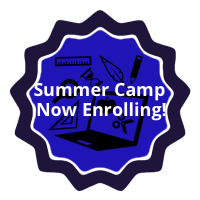
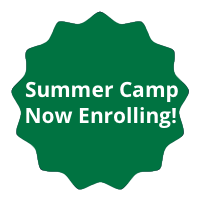
changed color scheme

diff --git a/public/assets/css/styles.css b/public/assets/css/styles.css
@@ -208,7 +208,7 @@ p {
     display:block;
     margin:0 auto;
     width:auto;
-    max-width:75%;
+    max-width:63%;
     height:auto;
 }
 
@@ -1664,7 +1664,7 @@ h3.cs-heading {
     text-decoration: none;
 }
 .cs-page .countdown {
-    color: #313447;
+    color: rgb(0, 115, 65);
     margin-bottom: 0px;
 }
 
@@ -1678,7 +1678,7 @@ h3.cs-heading {
 }
 .pricing-plan .header {
     padding: 25px 20px 18px 20px;
-    background-color: rgba(31, 20, 58, .4);
+    background-color: rgba(0, 115, 65, .4);
     text-align: center;
     -webkit-border-radius: 5px 5px 0 0;
     -moz-border-radius: 5px 5px 0 0;
@@ -1686,7 +1686,7 @@ h3.cs-heading {
 }
 .pricing-plan .header-highlighted {
     padding: 25px 20px 18px 20px;
-    background-color: rgba(31, 20, 58, .8);
+    background-color: rgba(0, 115, 65, .8);
     text-align: center;
     -webkit-border-radius: 5px 5px 0 0;
     -moz-border-radius: 5px 5px 0 0;
@@ -1715,14 +1715,14 @@ h3.cs-heading {
 }
 .pricing-plan .body {
     padding: 0px;
-    background-color: rgba(31, 20, 58, .4);
+    background-color: rgba(0, 115, 65, .4);
     -webkit-border-radius: 0 0 5px 5px;
     -moz-border-radius: 0 0 5px 5px;
   border-radius: 0 0 5px 5px;
 }
 .pricing-plan.highlited .body {
     /*background-color: #1F143A;*/
-    background-color: rgba(31, 20, 58, .8);
+    background-color: rgba(0, 115, 65, .8);
 }
 .pricing-plan .body ul {
     text-align: center;
@@ -1738,7 +1738,7 @@ h3.cs-heading {
 .pricing-plan .body ul li {
     list-style: none;
     padding: 18px 20px;
-    border-bottom: 1px solid #313447;
+    border-bottom: 1px solid rgb(0, 115, 65);
 }
 .pricing-plan.highlited .body ul li {
     border-bottom: 1px solid #ffffff;
@@ -1763,7 +1763,7 @@ h3.cs-heading {
 /*Accordion
 ---------------------------------------------------------*/
 .panel {
-  border-color: #313447;
+  border-color: rgb(0, 115, 65);
     -webkit-border-radius: 4px;
     -moz-border-radius: 4px;
   border-radius: 4px;
@@ -1771,9 +1771,9 @@ h3.cs-heading {
 }
 .panel > .panel-heading {
     display: block;
-  color: #ffffff;
-    background-color: #313447;
-  border-color: #313447;
+    color: #ffffff;
+    background-color: rgb(0, 115, 65);
+    border-color: rgb(0, 115, 65);
     -webkit-transition: all 250ms ease;
     -moz-transition: all 250ms ease;
     transition: all 250ms ease;
@@ -1782,14 +1782,14 @@ h3.cs-heading {
 }
 .panel > .panel-heading.collapsed {
   background-color: transparent;
-  color: #313447;
+  color: rgb(0, 115, 65);
 }
 .panel > .panel-heading.collapsed:hover {
-    background-color: #313447;
+    background-color: rgb(0, 115, 65);
   color: #ffffff;
 }
 .panel > .panel-heading + .panel-collapse .panel-body {
-  border-top-color: #313447;
+  border-top-color: rgb(0, 115, 65);
 }
 .panel-body {
   padding: 22px 15px 25px 15px;
@@ -1814,7 +1814,7 @@ h3.cs-heading {
     display: block;
     width: 15px;
     height: 1px;
-    background-color: #313447;
+    background-color: rgb(0, 115, 65);
     margin-top: 7px;
     -webkit-transition: all 250ms ease;
     -moz-transition: all 250ms ease;
@@ -1824,7 +1824,7 @@ h3.cs-heading {
     display: block;
     width: 1px;
     height: 15px;
-    background-color: #313447;
+    background-color: rgb(0, 115, 65);
     margin-left: 7px;
     margin-top: -8px;
     -webkit-transition: all 250ms ease;
@@ -1833,7 +1833,7 @@ h3.cs-heading {
 }
 .panel > .panel-heading.collapsed .indicator .icon .hr-line,
 .panel > .panel-heading.collapsed .indicator .icon .vr-line {
-    background-color: #313447;
+    background-color: rgb(0, 115, 65);
 }
 .panel > .panel-heading .indicator .icon .hr-line {
     background-color: #ffffff;
@@ -1866,7 +1866,7 @@ img {
 .img-thumbnail,
 .img-circle-thumbnail {
   padding: 5px;
-  border: 1px solid #313447;
+  border: 1px solid rgb(0, 115, 65);
   -webkit-border-radius: 5px;
   -moz-border-radius: 5px;
   border-radius: 5px;
@@ -1941,14 +1941,14 @@ img {
     display: inline-block;
     font-size: 1.5em;
     width: 44%;
-    /*background-color: rgba(31, 20, 58, .4);*/
+    /*background-color: rgba(0, 115, 65, .4);*/
     margin-right: .5em;
 }
 
 #dates div {
     display: inline-block;
     width: 49%;
-    background-color: rgba(31, 20, 58, .4);
+    background-color: rgba(0, 115, 65, .4);
 }
 
 h5.weeks {
@@ -1974,13 +1974,13 @@ p.weeks {
 }
 
 .typeform-button {
-    background-color: rgba(31, 20, 58, .8) !important;
-    border-color: rgba(31, 20, 58, .8) !important;
+    background-color: rgba(0, 115, 65, .8) !important;
+    border-color: rgba(0, 115, 65, .8) !important;
     width: 100%;
 }
 .typeform-button2 {
-    background-color: rgba(31, 20, 58, .8) !important;
-    border-color: rgba(31, 20, 58, .8) !important;
+    background-color: rgba(0, 115, 65, .8) !important;
+    border-color: rgba(0, 115, 65, .8) !important;
     width: 50%;
 }
 
@@ -2002,11 +2002,42 @@ p.weeks {
 }
 
 #camp-badge {
-    margin-top: 100px;
+    display: inline-block;
+    width: 19%;
+    margin-right: 7px;
 }
 
-@media all and (max-width: 768px) {
+
+@media all and (max-width: 1200px) {
     #camp-badge {
         display:none;
     }
 }
+
+#top-panel-subtext {
+    display: inline-block; 
+    width: 75%; 
+}
+
+.top-panel-emphasis {
+    color: #005630;
+/*    text-shadow:
+    -2px -2px 0 white,
+    2px -2px 0 white,
+    -2px 2px 0 white,
+    2px 2px 0 white;  */
+}
+
+.top-panel-emphasis2 {
+    color: #005630;
+    display: inline;
+/*    text-shadow:
+    -1px -1px 0 white,
+    1px -1px 0 white,
+    -1px 1px 0 white,
+    1px 1px 0 white;  */
+}
+
+
+
+

diff --git a/public/index.html b/public/index.html
@@ -92,7 +92,7 @@
       <section id="left-sidebar">
         
         <div class="logo">
-          <a href="#intro" class="link-scroll"><a>{ Mushroom Learning }</a>
+          <a href="#intro" class="link-scroll"><a><img src="assets/images/logo-icon.png" alt="Mushroom Learning"></a>
         </div><!-- .logo -->
 
         <!-- Menu Icon for smaller viewports -->
@@ -108,8 +108,6 @@
           <li id="menu-item-faq-panel" class="menu-item scroll"><a href="#faq-panel">FAQ</a></li>
         </ul><!-- #main-menu -->
 
-        <a href="#overview"><img src="assets/images/flaticons/badge-2.png" alt="Summer camps" id="camp-badge"></a>
-
       </section><!-- #left-sidebar -->
       <!-- end: Left Sidebar -->
 
@@ -119,11 +117,11 @@
           <div class="content-wrapper clearfix">
             <div class="col-sm-10 col-md-9 pull-right">
                 <section class="feature-text">
-                  <h1>Learn to <span style="color: #1F143A;">code.</span></h1>
-                  <h1>Solve <span style="color: #1F143A;">problems.</span></h1>
-                  <h1>Shape the <span style="color: #1F143A;">future.</span></h1>
-                  <p>Join our one-week summer camp that teaches students computational thinking, problem solving, and building a webpage from scratch using HTML, CSS, and JavaScript.</p>
-                  <p><a href="#text" class="link-scroll btn btn-outline-inverse btn-lg">find out more</a></p>
+                  <h1>Learn to <span class="top-panel-emphasis">code.</span></h1>
+                  <h1>Solve <span class="top-panel-emphasis">problems.</span></h1>
+                  <h1>Shape the <span class="top-panel-emphasis">future.</span></h1>
+                  <span id="camp-badge"><a href="#overview" class="link-scroll"><img src="assets/images/flaticons/badge-3.png" alt="Summer camps"></a></span><p id="top-panel-subtext">Join our one-week summer camp that teaches students computational thinking, problem solving, and building a webpage from scratch using HTML, CSS, and JavaScript.</p>
+                  
                 </section>
 
             </div><!-- .col-sm-10 -->
@@ -426,7 +424,7 @@
             <h2 class="section-title heading-center">Dates</h2>
             <div class="row">
               <ul id="dates">
-                <div>
+                <div class="col-lg-6 col-md-6 col-sm-6">
                   <h3><a href="" onclick="populate_and_open_modal(event, 'modal-content-1');" class="btn btn-outline-inverse btn-sm">South Austin</a></h3>
                   
                   <div class="content-to-populate-in-modal" id="modal-content-1">
@@ -448,7 +446,7 @@
                       <a class="typeform-share btn btn-primary btn-lg active typeform-button" href="https://www.eventbrite.com/e/summer-coding-camp-south-austin-tickets-11764157913" target="_blank" >South Austin sign-up</a>
                     </span>  
                 </div>
-                <div>
+                <div class="col-lg-6 col-md-6 col-sm-6">
                   <h3><a href="" onclick="populate_and_open_modal(event, 'modal-content-2');" class="btn btn-outline-inverse btn-sm">North Austin</a></h3>
                   
                   <div class="content-to-populate-in-modal" id="modal-content-2">
